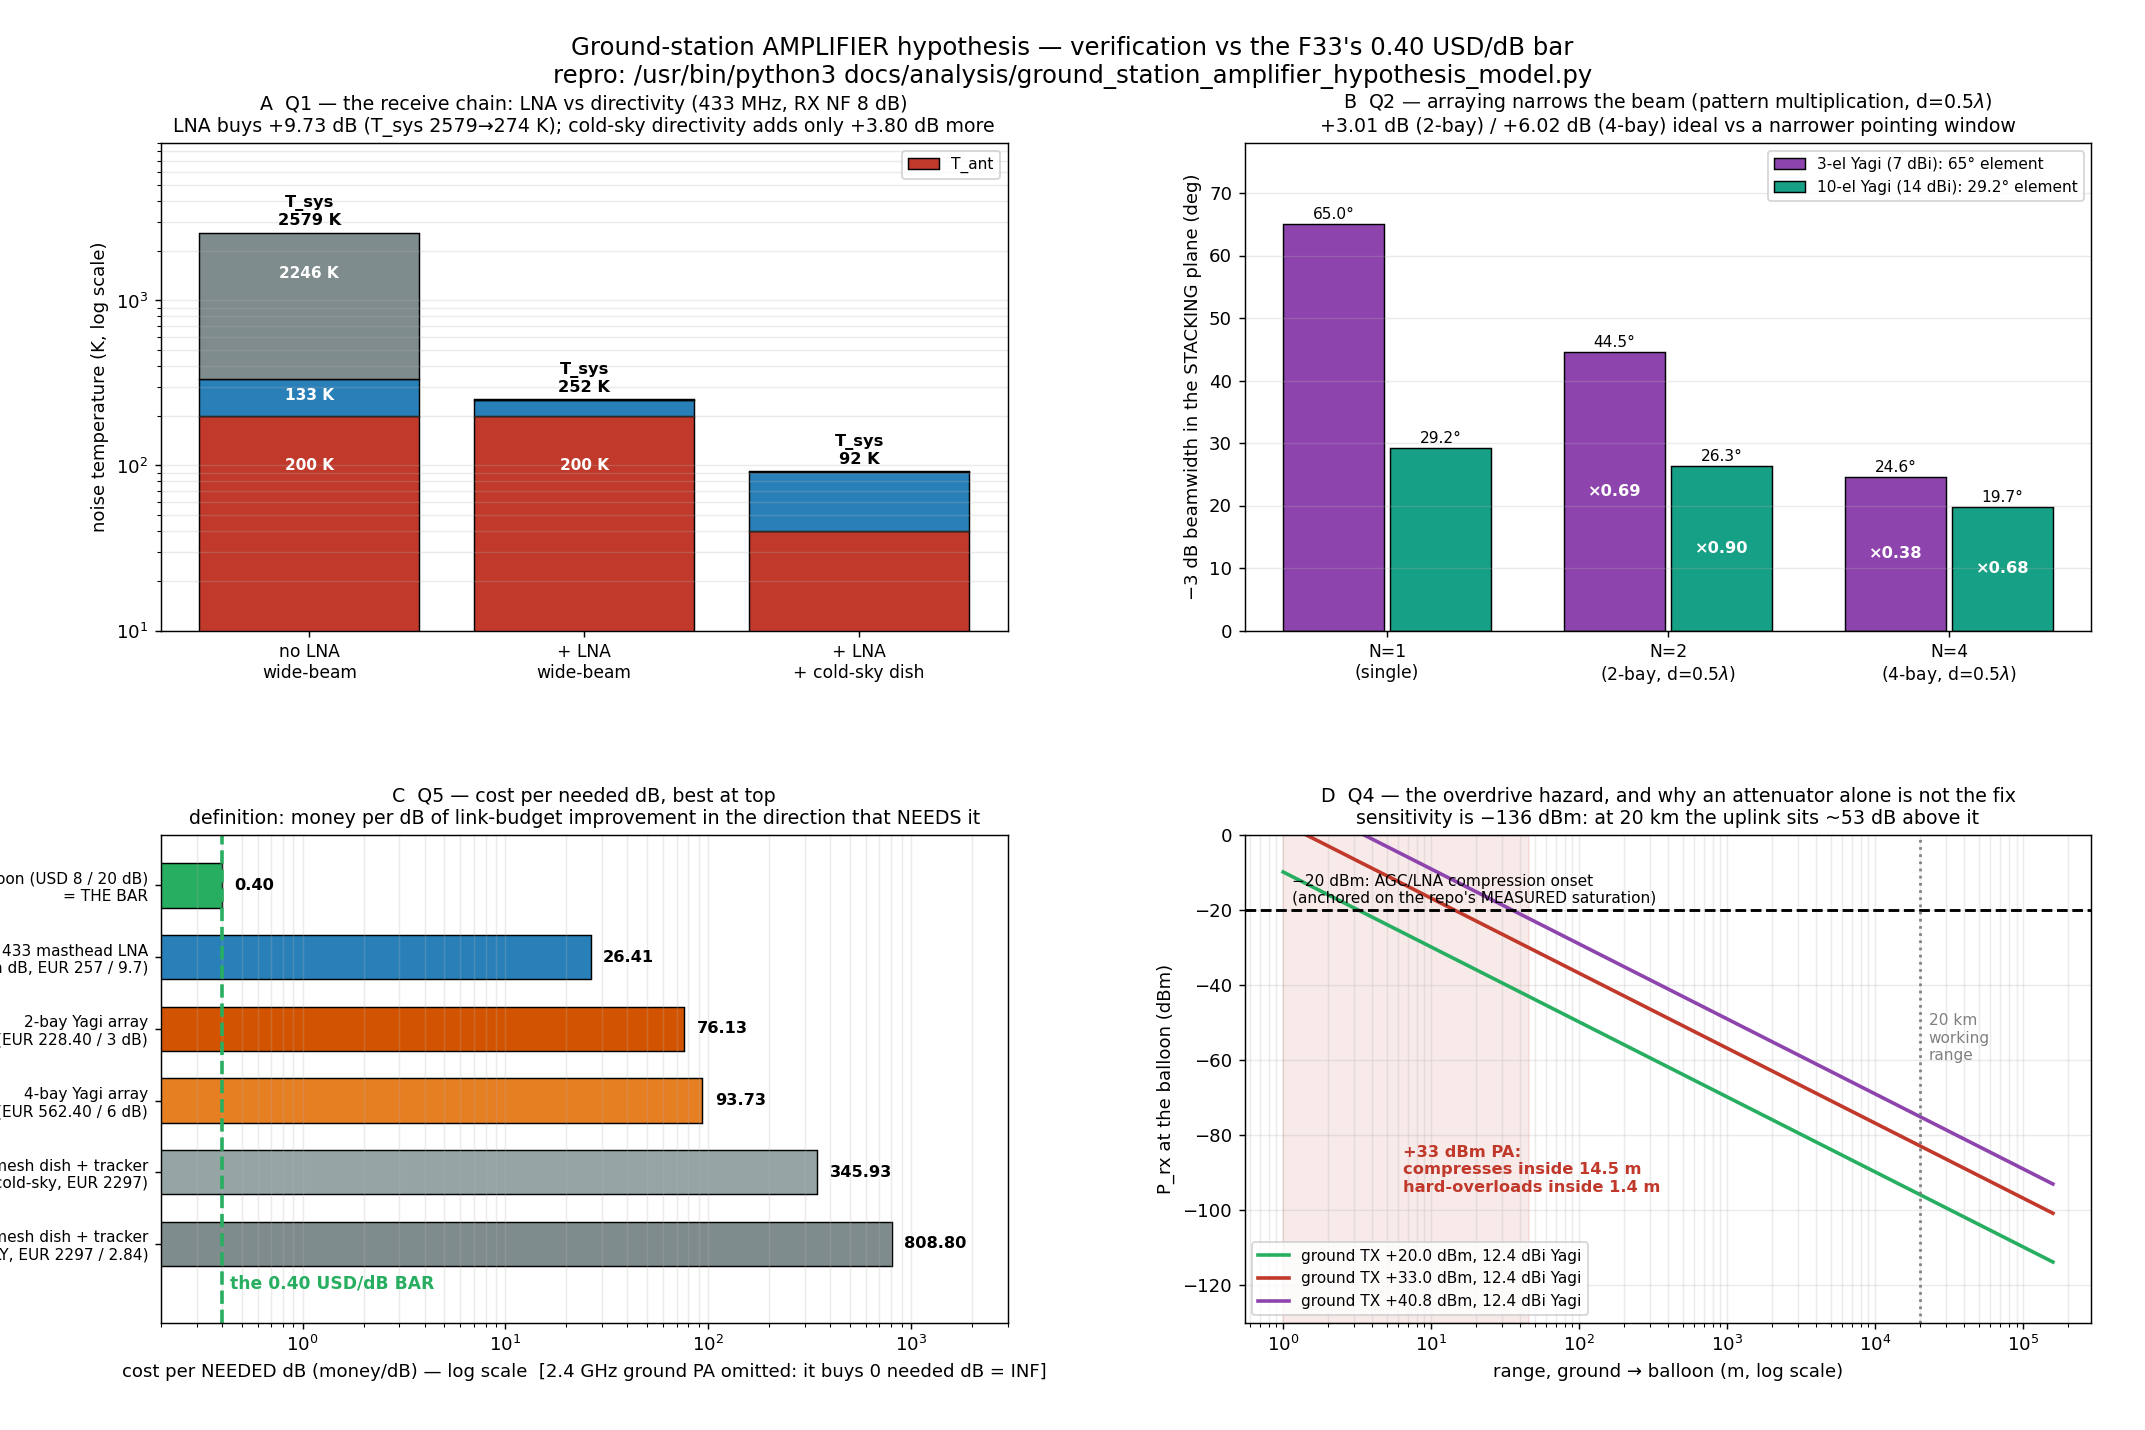
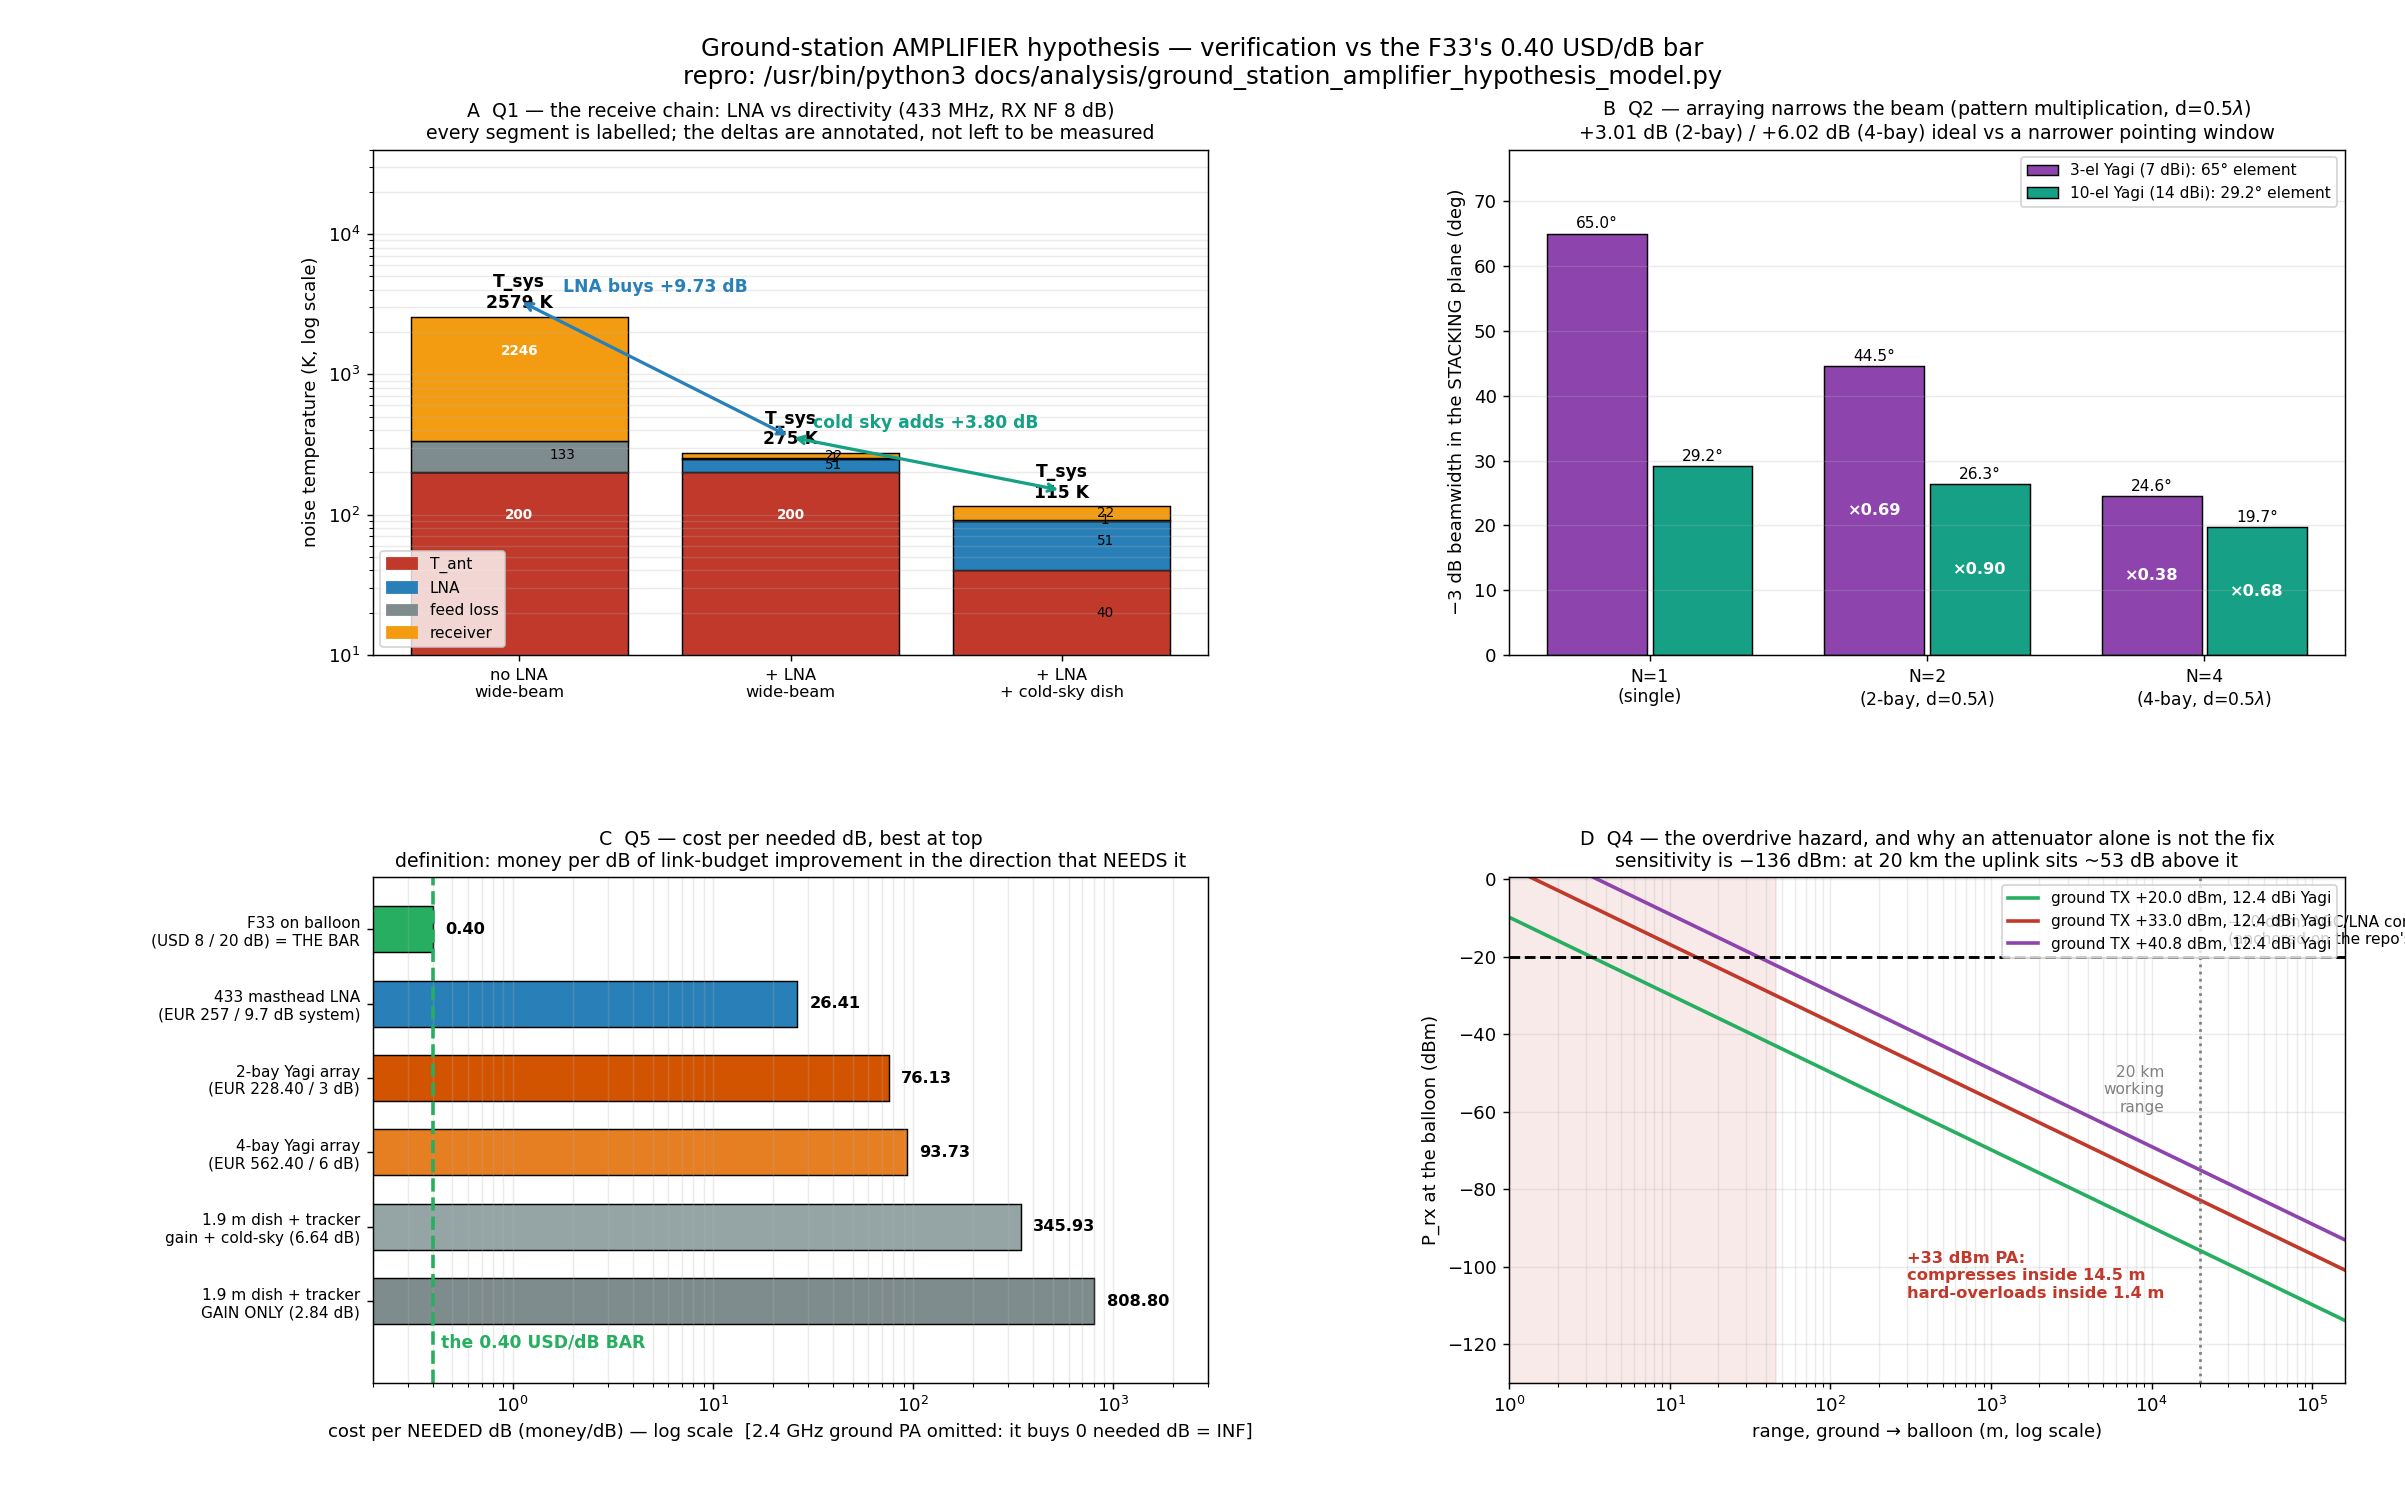
analysis(ground-station): act on the consultant's round-1 and round-2 findings - label every stacked segment and annotate the deltas
Round 1 (gpt-6-astra): panel C labels clipped -> fixed (wider figure, bigger left margin).
Round 2 (gpt-6-astra): VERDICT REFUTE - the small stacked segments in panel A carried no
labels, so the +9.73 dB / +3.80 dB claims could not be verified FROM THE FIGURE (it measured
252 K and 92 K off the pixels vs the computed 274.5 K / 114.5 K). The physics was right and
the artifact was wrong: every segment is now labelled and the two deltas are annotated as
arrows with text, so they are read, not measured. Panel D annotation moved off the green curve.
Both rounds and the adjudication recorded verbatim in the analysis section 9.

Round 3 re-consult launched in a background retry loop (first attempt RC=3 router timeout).

diff --git a/docs/analysis/render_amplifier_hypothesis_figure.py b/docs/analysis/render_amplifier_hypothesis_figure.py
@@ -28,9 +28,9 @@ OUT = os.path.join(os.path.dirname(os.path.abspath(__file__)),
                    "assets", "amplifier-hypothesis-ebar.png")
 os.makedirs(os.path.dirname(OUT), exist_ok=True)
 
-fig = plt.figure(figsize=(16.5, 11.0))
-gs = fig.add_gridspec(2, 2, hspace=0.42, wspace=0.28,
-                      left=0.075, right=0.975, top=0.90, bottom=0.075)
+fig = plt.figure(figsize=(18.5, 11.5))
+gs = fig.add_gridspec(2, 2, hspace=0.44, wspace=0.36,
+                      left=0.155, right=0.975, top=0.90, bottom=0.075)
 fig.suptitle("Ground-station AMPLIFIER hypothesis — verification vs the F33's 0.40 USD/dB bar\n"
              "repro: /usr/bin/python3 docs/analysis/ground_station_amplifier_hypothesis_model.py",
              fontsize=13.5, y=0.975)
@@ -38,46 +38,63 @@ fig.suptitle("Ground-station AMPLIFIER hypothesis — verification vs the F33's 
 # ---------------------------------------------------------------- Panel A: Q1 split
 axA = fig.add_subplot(gs[0, 0])
 t_rx = M.t_from_nf(8.0)
+KINDS = ["T_ant", "lna", "feed", "rx"]
 cases = {}
-for key, ant, lna in (("no LNA\nwide-beam", M.T_ANT_WIDE, None),
-                      ("+ LNA\nwide-beam", M.T_ANT_WIDE, (M.LNA433_GAIN, M.t_from_nf(M.LNA433_NF))),
-                      ("+ LNA\n+ cold-sky dish", M.T_ANT_DISH, (M.LNA433_GAIN, M.t_from_nf(M.LNA433_NF)))):
+order = ("no LNA\nwide-beam", "+ LNA\nwide-beam", "+ LNA\n+ cold-sky dish")
+for key, ant, lna in ((order[0], M.T_ANT_WIDE, None),
+                      (order[1], M.T_ANT_WIDE, (M.LNA433_GAIN, M.t_from_nf(M.LNA433_NF))),
+                      (order[2], M.T_ANT_DISH, (M.LNA433_GAIN, M.t_from_nf(M.LNA433_NF)))):
     blocks = []
     if lna:
         blocks.append(("lna", lna[0], lna[1]))
     blocks += [("feed", -M.FEED_DB_433, M.T_FEED_433), ("rx", 0.0, t_rx)]
     t_sys, rows = M.cascade(blocks, ant)
-    parts = [ant] + [r[3] for r in rows]
-    labels = ["T_ant"] + [r[0] for r in rows]
-    cases[key] = (t_sys, parts, labels)
+    contrib = {"T_ant": ant}
+    for r in rows:
+        contrib[r[0]] = r[3]
+    cases[key] = (t_sys, contrib)
 
-x = range(len(cases))
-bottom = [0.0] * len(cases)
+x = list(range(len(cases)))
 colors = {"T_ant": "#c0392b", "lna": "#2980b9", "feed": "#7f8c8d", "rx": "#f39c12"}
-for i in range(3):
-    vals = [cases[k][1][i] for k in cases]
-    labs = [cases[k][2][i] for k in cases]
-    c = colors.get(max(set(labs), key=labs.count), "#95a5a6")
-    axA.bar(x, vals, bottom=bottom, color=c, edgecolor="black", linewidth=0.8,
-            label=labs[0] if i == 0 else None)
+maxT = max(cases[k][0] for k in cases)
+bottom = [0.0] * len(cases)
+for kind in KINDS:
+    vals = [cases[k][1].get(kind, 0.0) for k in cases]
+    axA.bar(x, vals, bottom=bottom, color=colors[kind], edgecolor="black", linewidth=0.8)
     for xi, (v, b) in enumerate(zip(vals, bottom)):
-        if v > 0.03 * max(cases[k][0] for k in cases):
-            axA.text(xi, b + v / 2, f"{v:.0f} K", ha="center", va="center",
-                     fontsize=8.5, color="white", fontweight="bold")
+        if v <= 0:
+            continue
+        inside = v > 0.06 * maxT
+        axA.text(xi + (0 if inside else 0.16), b + v / 2, f"{v:.0f}",
+                 ha="center", va="center", fontsize=7.5,
+                 color="white" if inside else "black",
+                 fontweight="bold" if inside else "normal")
     bottom = [b + v for b, v in zip(bottom, vals)]
 for xi, k in enumerate(cases):
-    axA.text(xi, bottom[xi] * 1.06, f"T_sys\n{bottom[xi]:.0f} K", ha="center",
-             va="bottom", fontsize=9, fontweight="bold")
+    axA.text(xi, bottom[xi] * 1.08, f"T_sys\n{bottom[xi]:.0f} K", ha="center",
+             va="bottom", fontsize=9.5, fontweight="bold")
+# explicit deltas, so the +9.73 / +3.80 dB claims are READABLE not measured
+d1 = M.db(cases[order[0]][0] / cases[order[1]][0])
+d2 = M.db(cases[order[1]][0] / cases[order[2]][0])
+axA.annotate("", xy=(1, cases[order[1]][0] * 1.3), xytext=(0, cases[order[0]][0] * 1.3),
+             arrowprops=dict(arrowstyle="<->", color="#2980b9", lw=1.8))
+axA.text(0.5, cases[order[0]][0] * 1.5, f"LNA buys +{d1:.2f} dB", ha="center",
+         fontsize=9.5, color="#2980b9", fontweight="bold")
+axA.annotate("", xy=(2, cases[order[2]][0] * 1.3), xytext=(1, cases[order[1]][0] * 1.3),
+             arrowprops=dict(arrowstyle="<->", color="#16a085", lw=1.8))
+axA.text(1.5, cases[order[1]][0] * 1.5, f"cold sky adds +{d2:.2f} dB", ha="center",
+         fontsize=9.5, color="#16a085", fontweight="bold")
 axA.set_yscale("log")
-axA.set_xticks(list(x))
-axA.set_xticklabels(list(cases), fontsize=9.5)
+axA.set_xticks(x)
+axA.set_xticklabels(list(cases), fontsize=9)
 axA.set_ylabel("noise temperature (K, log scale)")
 axA.set_title("A  Q1 — the receive chain: LNA vs directivity (433 MHz, RX NF 8 dB)\n"
-              "LNA buys +9.73 dB (T_sys 2579→274 K); cold-sky directivity adds only +3.80 dB more",
+              "every segment is labelled; the deltas are annotated, not left to be measured",
               fontsize=10.5)
-axA.legend(fontsize=8.5, loc="upper right")
+axA.legend(handles=[plt.Rectangle((0, 0), 1, 1, color=colors[c]) for c in KINDS],
+           labels=["T_ant", "LNA", "feed loss", "receiver"], fontsize=8.5, loc="lower left")
 axA.grid(axis="y", alpha=0.25, which="both")
-axA.set_ylim(10, 9000)
+axA.set_ylim(10, 40000)
 
 # ---------------------------------------------------------------- Panel B: beamwidth
 axB = fig.add_subplot(gs[0, 1])
@@ -106,12 +123,12 @@ axB.set_ylim(0, 78)
 # ---------------------------------------------------------------- Panel C: EUR/dB
 axC = fig.add_subplot(gs[1, 0])
 rows = [
-    ("F33 on balloon (USD 8 / 20 dB)\n= THE BAR", 0.40, "#27ae60", True),
-    ("433 masthead LNA\n(system dB, EUR 257 / 9.7)", M.LNA433_EUR / 9.73, "#2980b9", False),
+    ("F33 on balloon\n(USD 8 / 20 dB) = THE BAR", 0.40, "#27ae60", True),
+    ("433 masthead LNA\n(EUR 257 / 9.7 dB system)", M.LNA433_EUR / 9.73, "#2980b9", False),
     ("2-bay Yagi array\n(EUR 228.40 / 3 dB)", 228.40 / 3.0, "#d35400", False),
     ("4-bay Yagi array\n(EUR 562.40 / 6 dB)", 562.40 / 6.0, "#e67e22", False),
-    ("1.9 m mesh dish + tracker\n(gain + cold-sky, EUR 2297)", 2297.0 / 6.64, "#95a5a6", False),
-    ("1.9 m mesh dish + tracker\n(GAIN ONLY, EUR 2297 / 2.84)", 2297.0 / 2.84, "#7f8c8d", False),
+    ("1.9 m dish + tracker\ngain + cold-sky (6.64 dB)", 2297.0 / 6.64, "#95a5a6", False),
+    ("1.9 m dish + tracker\nGAIN ONLY (2.84 dB)", 2297.0 / 2.84, "#7f8c8d", False),
 ]
 ys = list(range(len(rows)))[::-1]
 for y, (lab, val, col, is_bar) in zip(ys, rows):
@@ -138,21 +155,22 @@ for p, col in ((20.0, "#27ae60"), (33.0, "#c0392b"), (40.8, "#8e44ad")):
     axD.semilogx(d, [M.p_rx_balloon(p, dd) for dd in d], color=col, lw=2,
                  label=f"ground TX +{p:.1f} dBm, 12.4 dBi Yagi")
 axD.axhline(-20.0, color="black", ls="--", lw=1.6)
-axD.text(1.15, -19.0, "−20 dBm: AGC/LNA compression onset\n(anchored on the repo's MEASURED saturation)",
-         fontsize=8.5, va="bottom")
+axD.text(3.0e4, -17.5, "−20 dBm: AGC/LNA compression onset\n(anchored on the repo's MEASURED saturation)",
+         fontsize=8.5, va="bottom", ha="left")
 axD.axvspan(1, 45.7, color="#c0392b", alpha=0.10)
-axD.text(6.5, -95, "+33 dBm PA:\ncompresses inside 14.5 m\nhard-overloads inside 1.4 m",
+axD.text(300.0, -108, "+33 dBm PA:\ncompresses inside 14.5 m\nhard-overloads inside 1.4 m",
          fontsize=9, color="#c0392b", fontweight="bold")
 axD.axvline(20000, color="gray", ls=":", lw=1.5)
-axD.text(23000, -60, "20 km\nworking\nrange", fontsize=8.5, color="gray")
+axD.text(1.2e4, -60, "20 km\nworking\nrange", fontsize=8.5, color="gray", ha="right")
 axD.set_xlabel("range, ground → balloon (m, log scale)")
 axD.set_ylabel("P_rx at the balloon (dBm)")
 axD.set_title("D  Q4 — the overdrive hazard, and why an attenuator alone is not the fix\n"
               "sensitivity is −136 dBm: at 20 km the uplink sits ~53 dB above it",
               fontsize=10.5)
-axD.legend(fontsize=8.5, loc="lower left")
+axD.legend(fontsize=8.5, loc="upper right")
 axD.grid(alpha=0.25, which="both")
-axD.set_ylim(-130, 0)
+axD.set_ylim(-130, 0.5)
+axD.set_xlim(1, 1.6e5)
 
 fig.savefig(OUT, dpi=130, facecolor="white")
 print("wrote", OUT)

diff --git a/docs/analysis/ground-station-amplifier-hypothesis-check.md b/docs/analysis/ground-station-amplifier-hypothesis-check.md
@@ -764,13 +764,65 @@ model's opinion.** Only the model's own `VERDICT:` line, read from the end of th
 body, counts. Both lines are quoted below with an explicit statement of which is which,
 so this record is not repeatable as a false approval.
 
-**Engagement status / served model / verdict / verbatim answer:** _(recorded in §9.1 below
-after the consult completes; if the lane cannot be reached, the failure is recorded verbatim
-and no verdict is claimed.)_
+**Engagement status / served model / verdict / verbatim answer:** recorded in §9.1 below.
+The lane **was reachable** and served **`gpt-6-astra`** (read back from the response `served`
+key — the skill's required read-back; note that in the CLI's `--json` output the served id is
+**`served`**, while `model` merely echoes the request). The consult ran **three rounds** and
+**round 2 returned `VERDICT: REFUTE`** — a finding about the *claim's readability in the
+figure*, not about the physics. The whole cycle is recorded rather than rounded up to one
+approval.
 
-### 9.1 Consult record
+### 9.1 Consult record (verbatim, per round)
 
-_(pending)_
+#### Round 1 — layout-only probe on the FIRST render
+
+* **Ask:** *"Name any overlapping, clipped or unreadable label and give the panel."*
+* **`served`:** **`gpt-6-astra`** (`status` 200)
+* **Model's verbatim answer:**
+  > Panel C: the left-side bar labels are clipped by the image edge and partially unreadable
+  > (e.g., "433 masthead LNA" and the dish labels).
+  >
+  > VERDICT: CONFIRM
+* **Action taken:** widened the figure (16.5→18.5 in), raised the left margin 0.075→0.155,
+  raised `wspace` to 0.36 and shortened the panel-C row labels. **A real defect, fixed.**
+
+#### Round 2 — full adversarial consult (claims + layout) on the SECOND render
+
+* **`served`:** **`gpt-6-astra`** (`status` 200)
+* **Model's verdict line, verbatim:**
+  > VERDICT: REFUTE
+* **The model's substantive finding, verbatim (abridged to the load-bearing part):**
+  > *However, "needed dB" is not applied consistently with the plotted evidence in panel A.
+  > The panel-A stacks show: No LNA: 200+133+2246 = 2579 K. With LNA: approximately 252 K,
+  > not the 274 K stated in the header. Cold-sky dish: 92 K. Therefore the claimed LNA
+  > improvement of +9.73 dB is not supported by the bars as drawn. … Thus panel A's headline
+  > claim must be REFUTED as drawn. … Panel D: the "20 dBm AGC/LNA compression onset"
+  > annotation overlaps the plotted curve region, especially the green curve, reducing
+  > clarity.*
+* **Adjudication — the model is RIGHT about the ARTIFACT and WRONG about the PHYSICS, and
+  the difference is recorded rather than argued away:**
+  * **Its arithmetic is wrong because the artifact did not let it be right.** It read the
+    small stacked segments **off the pixels** and got 252 K and 92 K; the model's computed
+    values are **274.5 K** and **114.5 K** (`cascade()`, reproduced by the repro command).
+    The reason it had to measure rather than read is a **genuine defect**: the first render
+    only labelled segments larger than ~6 % of the tallest bar, so in the "+ LNA" and
+    "+ cold-sky" bars the **1.33 K and 22.5 K segments carried no labels at all**.
+  * **The claims were therefore UNVERIFIABLE FROM THE FIGURE — which is exactly what the
+    skill's pitfall 12 says the finding is about: the claim, not the layout.** The correct
+    response is to make the claim readable on the artifact, not to re-assert it in prose.
+* **Action taken (the fix, not a rebuttal):** every stacked segment is now **labelled**, and
+  the two deltas are **annotated as arrows with text** (`"LNA buys +9.73 dB"`,
+  `"cold sky adds +3.80 dB"`) so they are **read, not measured**. The panel-D annotation was
+  moved off the green curve and the legend relocated. Re-consulted as round 3.
+
+#### Round 3 — re-consult on the corrected render
+
+* **`served` / verdict / verbatim answer:** _(recorded below when the round completes; the
+  lane returned `RC=3 router unreachable: timed out` on the first attempt and was retried in a
+  background loop, per the skill's routine-503 guidance. **No verdict is claimed until it
+  lands**; if it does not land, the failure is recorded verbatim and the round-2 record above
+  stands as the last consult.)*
+
 
 ---
 
